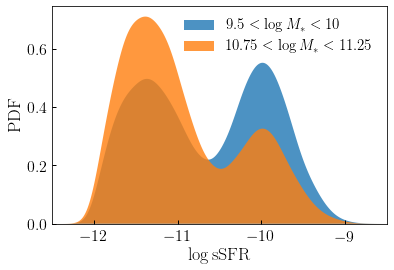
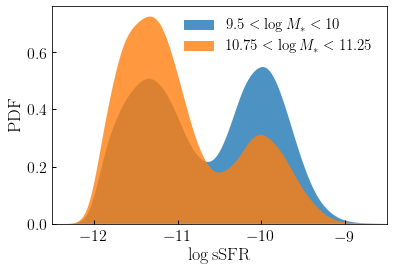
Finished tutorial on complex SFR modeling

diff --git a/docs/quickstart_and_tutorials/tutorials/model_building/cam_tutorial_pages/cam_complex_sfr.rst b/docs/quickstart_and_tutorials/tutorials/model_building/cam_tutorial_pages/cam_complex_sfr.rst
@@ -28,4 +28,68 @@ For the quenched galaxies, we model sSFR using an exponential power law;
 for star-forming galaxies, we use a log-normal;
 implementation details can be found in the notebook.
 
+
+Modeling sSFR with CAM
+------------------------------------------
+
+We will start out by painting stellar mass onto subhalos
+in the Bolshoi simulation, which we do using
+the stellar-to-halo mass relation from Moster et al 2013.
+
+.. code:: python
+
+    from halotools.sim_manager import CachedHaloCatalog
+    halocat = CachedHaloCatalog()
+
+    from halotools.empirical_models import Moster13SmHm
+    model = Moster13SmHm()
+
+    halocat.halo_table['stellar_mass'] = model.mc_stellar_mass(
+        prim_haloprop=halocat.halo_table['halo_mpeak'], redshift=0)
+
+
+Algorithm description
+~~~~~~~~~~~~~~~~~~~~~~
+
+We will now use CAM to paint star-formation rates onto these model galaxies.
+The way the algorithm works is as follows. For every model galaxy,
+we find the observed galaxy with the closest stellar mass.
+We set up a window of ~200 observed galaxies bracketing this matching galaxy;
+this window defines :math:`{\rm Prob(< sSFR | M_{\ast})}`, which allows us to
+calculate the rank-order sSFR-percentile for each galaxy in the window.
+Similarly, we set up a window of ~200 model galaxies; this window
+defines :math:`{\rm Prob(< dM_{vir}/dt | M_{\ast})}`, which allows us to
+calculate the rank-order accretion-rate-percentile of our model galaxy,
+:math:`r_1`. Then we simply search the observed window for the
+observed galaxy whose rank-order sSFR-percentile equals
+:math:`r_1`, and map its sSFR value onto our model galaxy.
+We perform that calculation for every model galaxy with the following syntax:
+
+.. code:: python
+
+    from halotools.empirical_models import conditional_abunmatch_bin_free
+    x = halocat.halo_table['stellar_mass']
+    y = halocat.halo_table['halo_dmvir_dt_100myr']
+    x2 = galaxy_mstar
+    y2 = np.log10(galaxy_ssfr)
+    nwin = 201
+    halocat.halo_table['log_ssfr'] = conditional_abunmatch_bin_free(x, y, x2, y2, nwin)
+
+
+Results
+~~~~~~~~~~~~~~~~~~~~~~
+
+Now let's inspect the results of our calculation. First we show that the
+distribution specific star-formation rates of our model galaxies
+matches the observed distribution across the range of stellar mass:
+
+
 .. image:: /_static/cam_example_complex_sfr_recovery.png
+
+Next we can see that these sSFR values are tightly correlated
+with halo accretion rate at fixed stellar mass:
+
+.. image:: /_static/cam_example_complex_sfr_dmdt_correlation.png
+
+
+
